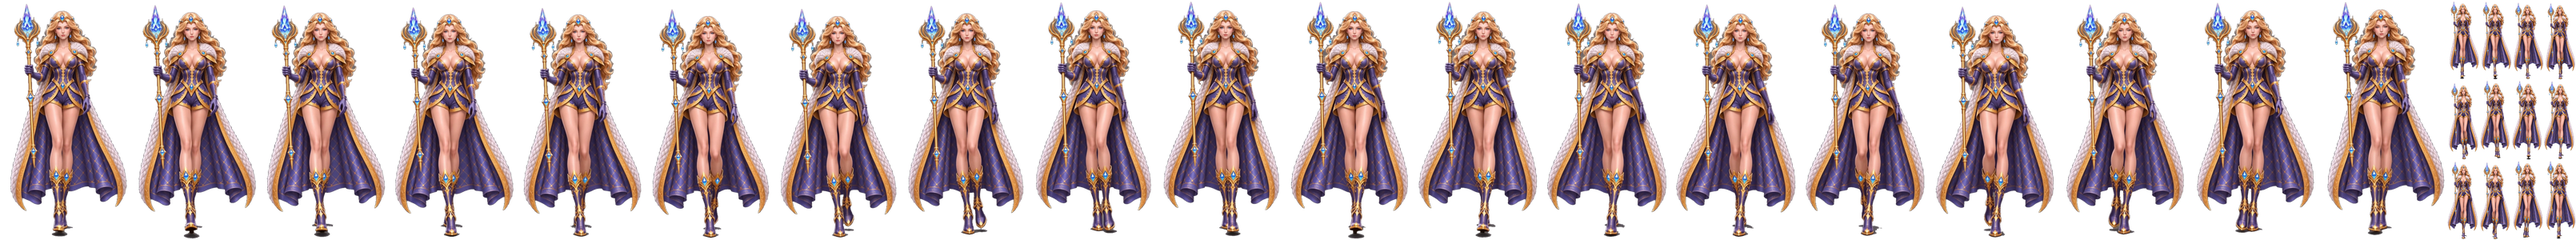
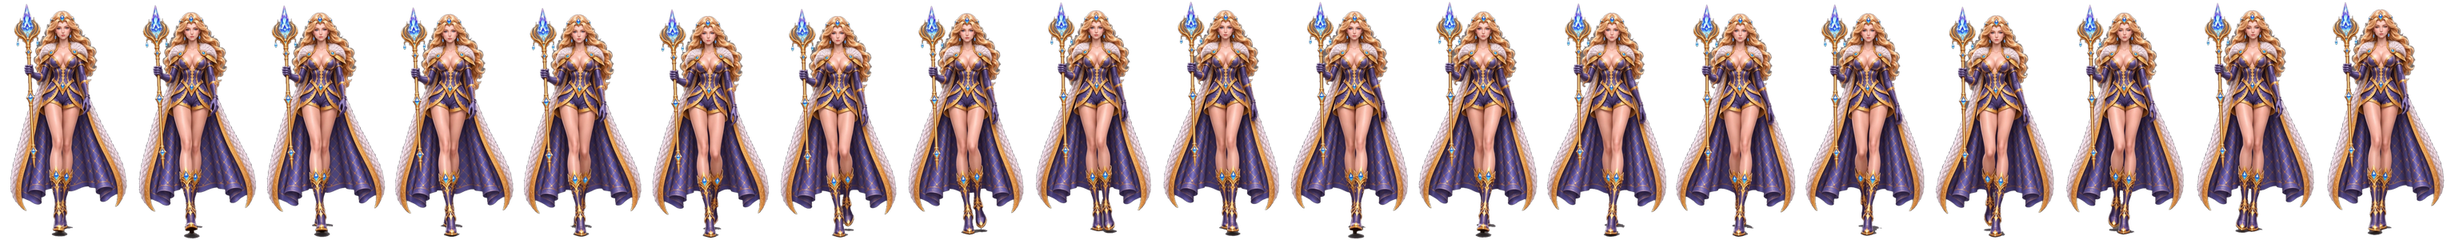
Фикс: плащ не режется (поля при стабилизации), из цикла выкинут кадр-лист

diff --git a/index.html b/index.html
@@ -34,8 +34,8 @@ function resize() {
 window.addEventListener('resize', resize); resize();
 
 const META = {
-  front: { frames: 20, w: 161, h: 300, cycle: 1.58 },
-  side:  { frames: 16, w: 178, h: 300, cycle: 1.25 },
+  front: { frames: 19, w: 161, h: 300, cycle: 1.542 },
+  side:  { frames: 15, w: 185, h: 300, cycle: 1.208 },
 };
 const img = {};
 let loaded = 0;
